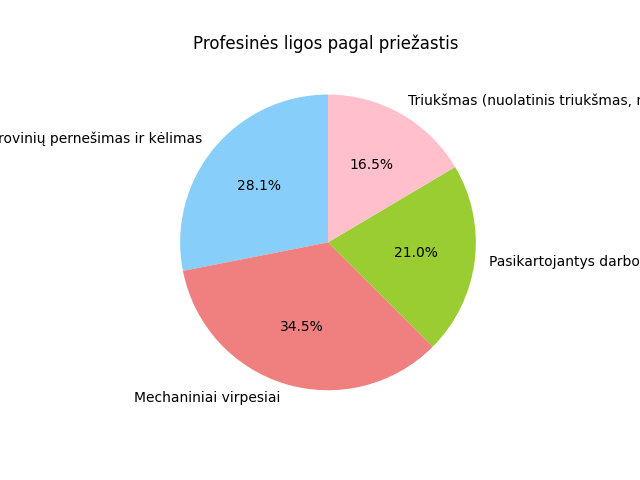
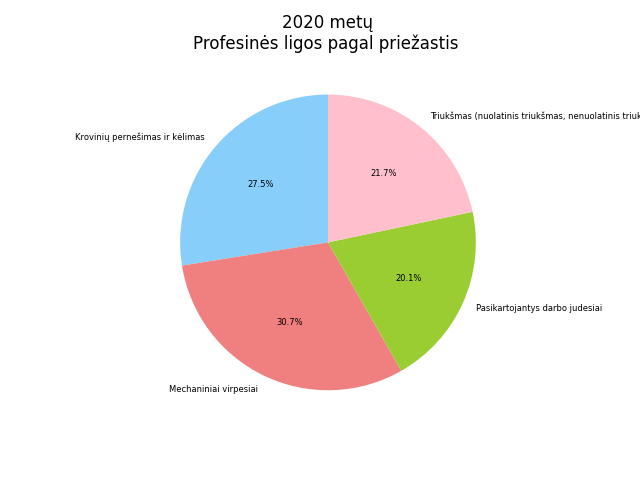
atnaujintas analizės failas

diff --git a/analize.py b/analize.py
@@ -21,7 +21,7 @@ def pagal_savivaldybes():
     plt.title('Profesinių ligų pasiskirstymas pagal savivaldybes 2022 metais')
     plt.ylabel('Atvejų_skaičius')
     plt.xticks(rotation=25,ha='right')
-    plt.legend([]) # panaikinam legenda
+    plt.legend([])
     plt.savefig("pagal_savivaldybes_2022.png")
     plt.tight_layout()
     plt.show()
@@ -34,17 +34,33 @@ def profesiniu_lig_daz(year):
     prof_lig_dazn_per_pas_met = prof_lig_dazn_per_pas_met[prof_lig_dazn_per_pas_met > 10]
     colors = ["lightskyblue", "lightcoral", "yellowgreen", "pink", "lightgreen", "purple"]
     plt.pie(prof_lig_dazn_per_pas_met, labels=prof_lig_dazn_per_pas_met.index, autopct='%1.1f%%', startangle=90,
-            colors=colors)
-    plt.title("Profesinės ligos pagal priežastis ")
+            colors=colors,textprops={'fontsize': 6})
+    plt.title(f'{year} metų\n' "Profesinės ligos pagal priežastis ")
     plt.savefig("profesines_lig_pagal_priez.png")
     plt.show()
 
 #Profesinių ligų pasiskirstymas pagal lytį
 def lytis():
-    pagal_lytis = Asmuo.groupby('lyties_pavadinimas')['priezasties_pav'].count()
-    
+    year_start = 2013
+    year_end = 2023
+    lyties_df = Asmuo[Asmuo['year'].between(year_start, year_end)]
+    rezultatas = lyties_df.groupby(['year', 'lyties_pavadinimas'])['priezasties_pav'].count().unstack(fill_value=0)
+    plt.figure(figsize=(10, 6))
+    rezultatas.plot(kind='line', marker='o')
+    plt.title('Profesinių ligų pasiskirstymas pagal lytį ir metus')
+    plt.xlabel('Metai')
+    plt.ylabel('Atvejų skaičius')
+    plt.xticks(rotation=25, ha='right')
+    plt.legend(title='Lytis', loc='upper right')
+    plt.tight_layout()
+    plt.savefig("lytis_linijinis.png")
+    plt.show()
 
 
 
-pagal_savivaldybes()
-profesiniu_lig_daz(2022)
+
+
+
+# pagal_savivaldybes()
+# profesiniu_lig_daz(2020)
+# lytis()
